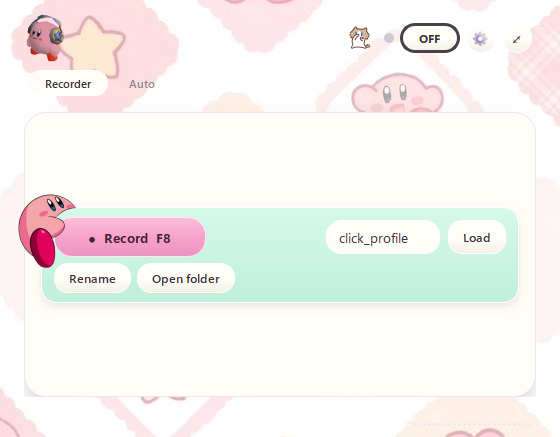
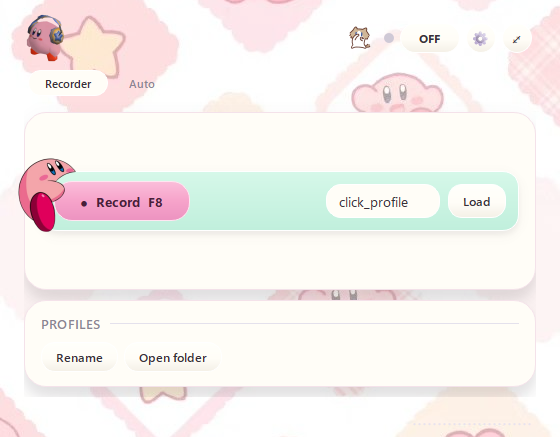
v1.2: separate Profiles card for rename and open-folder actions
- The Record card now holds only recording controls.
- Rename and Open folder moved into a separate PROFILES card with its own title rule.
- Narrower record/profile controls prevent horizontal clipping at 440x250; the tab scrolls vertically.
- 144 tests passing; refreshed screenshots and rebuilt exe.

diff --git a/app/ui/main_window.py b/app/ui/main_window.py
@@ -286,7 +286,7 @@ class MainWindow(QMainWindow):
     def _build_recorder_tab(self) -> QWidget:
         page = QWidget()
         outer = QVBoxLayout(page)
-        outer.setContentsMargins(0, 10, 0, 0)
+        outer.setContentsMargins(0, 10, 0, 10)
         outer.setSpacing(10)
 
         card = Card()
@@ -298,14 +298,14 @@ class MainWindow(QMainWindow):
         self.record_button = QPushButton("●  Record  F8")
         self.record_button.setObjectName("Primary")
         self.record_button.setMinimumHeight(40)
-        self.record_button.setMinimumWidth(152)
+        self.record_button.setMinimumWidth(136)
         self.record_button.setCursor(Qt.PointingHandCursor)
         self.record_button.clicked.connect(self._toggle_recording)
         row.addWidget(self.record_button)
         row.addStretch(1)
 
         self.profile_combo = QComboBox()
-        self.profile_combo.setMinimumWidth(104)
+        self.profile_combo.setMinimumWidth(96)
         self.profile_combo.setFixedHeight(34)
         self.profile_combo.setToolTip("Saved profiles")
         self.profile_combo.currentIndexChanged.connect(lambda _i: self._update_controls())
@@ -318,6 +318,27 @@ class MainWindow(QMainWindow):
         self.profile_load_button.clicked.connect(self._load_selected_profile)
         row.addWidget(self.profile_load_button)
         cushion.body().addLayout(row)
+        card.body().addWidget(cushion)
+        card.body().addStretch(1)
+        outer.addWidget(card, 1)
+
+        # Profile housekeeping lives in its own card so the Record card above
+        # only contains recording controls.
+        tools = Card()
+        self._profile_tools_card = tools
+        tools_header = QHBoxLayout()
+        tools_header.setSpacing(8)
+        tools_title = QLabel("PROFILES")
+        tools_title.setObjectName("PanelTitle")
+        tools_title.setFont(theme.panel_title_font())
+        tools_title.setStyleSheet(f"color: {theme.MUTED};")
+        tools_header.addWidget(tools_title)
+        tools_rule = QFrame()
+        tools_rule.setObjectName("TitleRule")
+        tools_rule.setFixedHeight(1)
+        tools_rule.setStyleSheet(f"background: {theme.HAIRLINE}; border: none;")
+        tools_header.addWidget(tools_rule, 1)
+        tools.body().addLayout(tools_header)
 
         actions = QHBoxLayout()
         actions.setSpacing(6)
@@ -334,10 +355,8 @@ class MainWindow(QMainWindow):
         self.profile_folder_button.clicked.connect(self._open_profiles_folder)
         actions.addWidget(self.profile_folder_button)
         actions.addStretch(1)
-        cushion.body().addLayout(actions)
-        card.body().addWidget(cushion)
-        card.body().addStretch(1)
-        outer.addWidget(card, 1)
+        tools.body().addLayout(actions)
+        outer.addWidget(tools)
 
         self._recorder_page = page
         # Kirby hangs over the Record pill, so the sprite lives on the window

diff --git a/tests/test_ui_redesign.py b/tests/test_ui_redesign.py
@@ -16,7 +16,7 @@ os.environ.setdefault("QT_QPA_PLATFORM", "offscreen")
 
 from PySide6.QtCore import QPoint, Qt  # noqa: E402
 from PySide6.QtGui import QMovie  # noqa: E402
-from PySide6.QtWidgets import QApplication, QLabel, QPushButton  # noqa: E402
+from PySide6.QtWidgets import QApplication, QFrame, QLabel, QPushButton  # noqa: E402
 
 from app.core.profile import next_recording_path, save_profile_values  # noqa: E402
 from app.core.settings import AppSettings, load_settings, save_settings  # noqa: E402
@@ -343,6 +343,29 @@ class RedesignWindowTest(unittest.TestCase):
         self.assertTrue(second.is_file())
         self.assertEqual(second.read_text(encoding="utf-8").splitlines()[0], "# ClickProfile v1 (Kirby Clicker)")
         self.assertEqual(Path(window.profile_combo.currentData()), first)
+
+    def test_profile_actions_live_in_their_own_card(self) -> None:
+        window = self.window
+        tools = window._profile_tools_card
+        self.assertTrue(tools.isAncestorOf(window.profile_rename_button))
+        self.assertTrue(tools.isAncestorOf(window.profile_folder_button))
+        self.assertFalse(window._recorder_card.isAncestorOf(window.profile_rename_button))
+        self.assertFalse(window._recorder_card.isAncestorOf(window.profile_folder_button))
+        title = tools.findChild(QLabel, "PanelTitle")
+        self.assertIsNotNone(title)
+        self.assertEqual(title.text(), "PROFILES")
+        self.assertIsNotNone(tools.findChild(QFrame, "TitleRule"))
+
+    def test_recorder_cards_do_not_overlap_at_default_or_minimum_size(self) -> None:
+        window = self.window
+        for width, height in ((560, 437), (440, 250)):
+            with self.subTest(size=(width, height)):
+                window.resize(width, height)
+                self.app.processEvents()
+                record = window._recorder_card.geometry()
+                tools = window._profile_tools_card.geometry()
+                self.assertFalse(record.intersects(tools))
+                self.assertLess(record.bottom(), tools.top())
 
     def test_open_folder_opens_the_real_profiles_directory(self) -> None:
         window = self.window

diff --git a/app/__init__.py b/app/__init__.py
@@ -1,3 +1,3 @@
 """Kirby Clicker — Windows GUI click tool."""
 
-__version__ = "1.1.0"
+__version__ = "1.2.0"

diff --git a/README.md b/README.md
@@ -190,10 +190,10 @@ on its first frame when OFF, so it costs no idle CPU.
    cursor position and loops until you release the button. Profiles with other
    names are listed too and load fine.
 6. **Manage profiles.** Recordings already save themselves as `recN.txt`, so
-   there is no **Save as** button. **Rename** renames the profile picked in the
-   dropdown (validates the name, refuses an existing file and keeps the profile
-   selected after the rename), and **Open folder** opens `profiles/` in
-   Explorer.
+   there is no **Save as** button. The separate **Profiles** card below the
+   Record card holds **Rename** (renames the profile picked in the dropdown,
+   validates the name, refuses an existing file and keeps the profile selected
+   after the rename) and **Open folder** (opens `profiles/` in Explorer).
 7. **Dry run.** Tick **Settings → Dry run** to run the same hold-trigger replay
    without sending any clicks. No input leaves the app.
 8. **Auto tab.** Pick one of five timing methods, drag or type the low/high CPS
@@ -401,8 +401,8 @@ powershell -ExecutionPolicy Bypass -File .\build\verify_exe_env.ps1
 
 | Check | Result |
 | --- | --- |
-| Unit tests (142) | OK — profile rename with name validation/conflict and selection retained, rename dialog wiring, Open folder wired to the real `profiles/` path, linked CPS bounds in `Static ⚠` plus independent bounds in the other methods, rename + multi-legacy migration, music option/volume defaults (0.05) and persistence, settings schema, recN auto-naming, profile header `# ClickProfile v1 (Kirby Clicker)` with legacy header still loading, ON/OFF toggle, mascot swap, cat play/pause/reset, bite clamped to the Record pill at both sizes, mode labels `Random` / `Static ⚠` with stable ids, clickable signature/link footer, mouse routing, five timing modes, bind persistence/validation |
-| `verify_dryrun.py` | PASS — max drift 3.2 ms, max interval error 2.5 ms, max hold error 0.0 ms (tolerance ±12 ms) |
+| Unit tests (144) | OK — separate Profiles card with its own title rule and no card overlap at 560×437 / 440×250, profile rename with name validation/conflict and selection retained, rename dialog wiring, Open folder wired to the real `profiles/` path, linked CPS bounds in `Static ⚠` plus independent bounds in the other methods, rename + multi-legacy migration, music option/volume defaults (0.05) and persistence, settings schema, recN auto-naming, profile header `# ClickProfile v1 (Kirby Clicker)` with legacy header still loading, ON/OFF toggle, mascot swap, cat play/pause/reset, bite clamped to the Record pill at both sizes, mode labels `Random` / `Static ⚠` with stable ids, clickable signature/link footer, mouse routing, five timing modes, bind persistence/validation |
+| `verify_dryrun.py` | PASS — max drift 3.1 ms, max interval error 3.1 ms, max hold error 0.3 ms (tolerance ±12 ms) |
 | `verify_click_delivery.py` | PASS — foreground/background press+release, 3/3 replay |
 | `verify_hotkeys.py` | PASS — F8 record start/stop, F9 ON/OFF, Ctrl+F12 quit |
 | `verify_trigger.py` | PASS — F9 ON, profile trigger press/release, auto tab press/release, F9 OFF |
